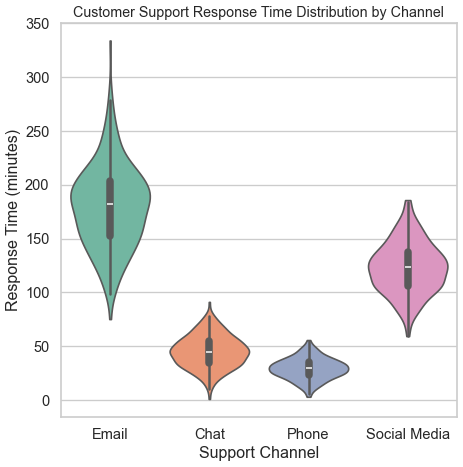
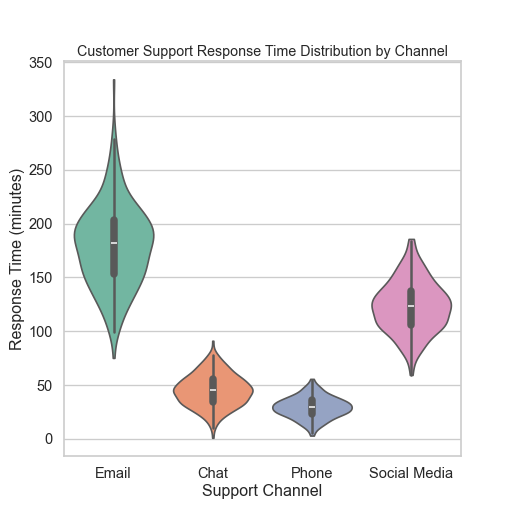
Fix size to exactly 512x512

Changed region(s): [[0.0, 0.0, 0.9978, 0.9893]]

diff --git a/chart.py b/chart.py
@@ -46,5 +46,5 @@ plt.xlabel("Support Channel")
 plt.ylabel("Response Time (minutes)")
 
 # --- Save Output ---
-plt.savefig("chart.png", dpi=64, bbox_inches="tight")
+plt.savefig("chart.png", dpi=64, bbox_inches=None, pad_inches=0)
 plt.close()
